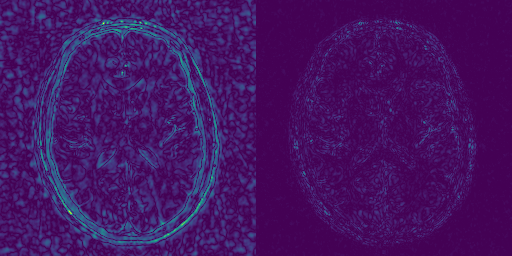
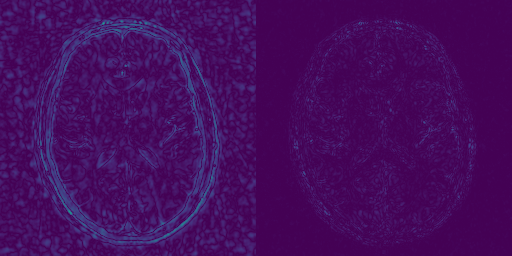
update readme

diff --git a/Solver.py b/Solver.py
@@ -271,17 +271,17 @@ class Solver():
                 print(" test PSNR:\t\t{:.6f}".format(test_psnr))
                 ######################### visualization ###############################
 
-                mask = 255 * mask[0, 0].cpu().numpy()
-                T1 = 255 * T1.abs()[0].cpu().numpy()
-                im_A = 255 * im_A.abs()[0].cpu().numpy()
-                im_A_und = 255 * im_A_und.abs()[0].cpu().numpy()
+                mask = mask[0, 0].cpu().numpy()
+                T1 = T1.abs()[0].cpu().numpy()
+                im_A = im_A.abs()[0].cpu().numpy()
+                im_A_und = im_A_und.abs()[0].cpu().numpy()
                 error_und = abs(im_A_und - im_A)
                 err_T1 = abs(T1 - im_A)
 
-                np_visual_stack = np.hstack((mask.astype(np.uint8), im_A_und.astype(np.uint8), T1.astype(np.uint8),
-                                             im_A.astype(np.uint8)))
-                np_visual_stack_error = np.hstack((error_und.astype(np.uint8), err_T1.astype(np.uint8)))
+                np_visual_stack = np.hstack((mask, im_A_und, T1,
+                                             im_A))
+                np_visual_stack_error = np.hstack((error_und, err_T1))
 
-                plt.imsave('{}_{}_error.png'.format(self.mask_name, sampling_rate), np_visual_stack_error)
-                plt.imsave('{}_{}.png'.format(self.mask_name, sampling_rate), np_visual_stack, cmap='gray')
+                plt.imsave('{}_{}_error.png'.format(self.mask_name, sampling_rate), np_visual_stack_error,vmin=0,vmax=1.)
+                plt.imsave('{}_{}.png'.format(self.mask_name, sampling_rate), np_visual_stack, vmin=0,vmax=1., cmap='gray')
                 # skimage.io.imsave('{}_{}.png'.format(self.mask_name, sampling_rate), np_visual_stack)

diff --git a/README.md b/README.md
@@ -74,10 +74,10 @@ RefineGAN|  32.705 |  36.734 | 39.961| 42.903
 
 |  rate    | from left to right: mask, zero-filled, prediction and ground truth | error (zero-filled) and error (prediction)    
 -------|------|------
-10%|<img src="img/radial_10.png?raw=true" title = "radial_10" width="600">|<img src="img/radial_10_error.png?raw=true" title = "radial_10_error" width="400">
-20%|<img src="img/radial_20.png?raw=true" title = "radial_20" width="600">|<img src="img/radial_20_error.png?raw=true" title = "radial_20_error" width="400">
-30%|<img src="img/radial_30.png?raw=true" title = "radial_30" width="600">|<img src="img/radial_30_error.png?raw=true" title = "radial_30_error" width="400">
-40%|<img src="img/radial_40.png?raw=true" title = "radial_40" width="600">|<img src="img/radial_40_error.png?raw=true" title = "radial_40_error" width="400">
+10%|<img src="img/radial_10.png?raw=true" title = "radial_10" width="800">|<img src="img/radial_10_error.png?raw=true" title = "radial_10_error" width="400">
+20%|<img src="img/radial_20.png?raw=true" title = "radial_20" width="800">|<img src="img/radial_20_error.png?raw=true" title = "radial_20_error" width="400">
+30%|<img src="img/radial_30.png?raw=true" title = "radial_30" width="800">|<img src="img/radial_30_error.png?raw=true" title = "radial_30_error" width="400">
+40%|<img src="img/radial_40.png?raw=true" title = "radial_40" width="800">|<img src="img/radial_40_error.png?raw=true" title = "radial_40_error" width="400">
 
 
 ### Notes on RefineGAN
